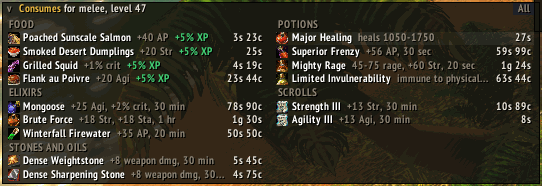
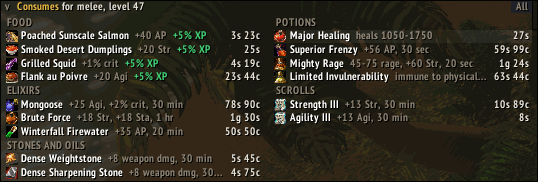
Goblin Ledger page: review fixes (phone-sized photos, clearer wording, og without flips)
- Phones see the real photos at full size: the chart scrolls sideways in its
  own strip, and the Consumes panel comes as its two columns stacked
  (img/consumes-phone.png). Both consumes crops now stop at the panel's own
  border. Photos show 1:1 inside their border.
- Pictures carry a small Drawing or Real screenshot tag; captions drop the
  build talk.
- Flight bar fill shows the time left (77%), as the addon draws it.
- Wording: the Top 2 button shows the two best; crafting says plans show
  mats cost and profit, ore and bars what your recipes pay; No results?
  instead of Empty search?; Character select screen.
- Updates card: keep the unzipped folder, its installer gets fresh prices.
- Commands: 12 one-line rows, no bracket notes; one line on off/on.
- Wide tiles go side by side from 1100 px, install steps 2 across from 640.
- og.png: "Enchant, consumes, crafting and travel tips." instead of flips.
- Top comment trimmed to the picture list and the swap-in lines.

Changed region(s): [[0.0, 0.0, 1.0, 1.0], [0.4164, 0.522, 0.7732, 0.7418], [0.803, 0.0549, 0.8327, 0.0824]]

diff --git a/goblin-ledger/index.html b/goblin-ledger/index.html
@@ -6,38 +6,36 @@
   Short on purpose: a hero, one tile per feature (a picture and 2-3 bullets),
   install in 4 steps, the commands, then help. It describes 1.1.0.
 
-  PICTURES. Real photos (all from the game, cropped, no names in them):
+  PICTURES. Real photos (from the game, cropped, no names in them):
 
     img/chart.png          the price chart under the AH                   REAL 693 x 222
-                           Cropped from the 2026-11-19 13:30 screenshot. The panel is
-                           see-through: the name plates of other players behind it were
-                           wiped by flattening only its darkest pixels (its own text,
-                           lines and bars are untouched). One build back: its blue
-                           "List At" box is "Sell at" in 1.1.0 (the caption says so).
-    img/consumes.png       the Consumes panel                              REAL 542 x 186
-                           Cropped from the 2026-11-19 14:45 screenshot (256 colours).
-                           One build back: no Best / Budget switch or grey % per row yet.
+                           Older version (its "List At" box is "Sell at" now).
+                           Shown at full size: on phones it scrolls sideways.
+    img/consumes.png       the Consumes panel                              REAL 538 x 182
+    img/consumes-phone.png the same pixels, its two columns stacked        REAL 271 x 292
+                           (phones get this one). Older version: no Best /
+                           Budget switch or % per row yet.
     img/bag-cleanup.png    the Bag cleanup panel                           REAL 222 x 254
     img/auction-house.png  sell window + chart                             REAL, NOT SHOWN:
-                           it still has the old Suggested button (gone in 1.1.0).
-    img/og.png             link preview for Discord and texts, 1200 x 630 (og:image; a graphic)
+                           it still has the old Suggested button.
+    img/og.png             link preview for Discord and texts, 1200 x 630 (a graphic)
 
-  DRAWINGS (HTML/CSS, class "mock-box", each captioned "Drawing, not a
-  screenshot"). Every line in them is one the addon really prints: the 1.1.0
-  code (build/mergepolish at 3a76542cb1) run in tools/wow/addon_test/harness.py
-  on a real price file (Nov 18). Names are items and places, never players.
+  DRAWINGS (HTML/CSS, captioned with a "Drawing" tag: not a screenshot).
+  Every line in them is one the addon really prints. Names are items and
+  places, never players.
 
     tooltip   Iron Ore, a stack of 20 in the bags
-    enchants  Bonebiter worn by a level 47 warrior, Top 5 (the default), no Blacksmithing
-    crafts    Thorium Ore (with Smelting) and Plans: Mithril Spurs: only the craft lines
+    enchants  Bonebiter worn by a level 47 warrior, Top 5 (the default)
+    crafts    Thorium Ore (with Mining) and Plans: Mithril Spurs: only the craft lines
     flights   flight map, Stormwind to Ironforge; the bar 60 s into that flight
-    boats     at the Theramore dock (a line from the harness's boat checks)
-    website   a made-up price line (says so)
+    boats     at the Theramore dock
+    website   a made-up price line
 
   To swap a drawing for a real photo: save the photo in goblin-ledger/img/
-  under the name below, replace the drawing's <div class="mock-box ..."> ... </div>
+  under the name below, replace the drawing (the element with role="img")
   with the <img> line (set width/height to the photo's pixel size), and change
-  its figcaption to "Real screenshot". Check each alt text against the photo.
+  its figcaption to: <span class="tag tag-real">Real screenshot</span>
+  Check each alt text against the photo.
 
     <img src="img/tooltip.png" width="400" height="300" loading="lazy" decoding="async" alt="Screenshot of an item tooltip in WoW Forever with the Goblin Ledger lines: the Auction it call, AH value, usual price, Sell now and the stack after the AH cut.">
     <img src="img/enchants.png" width="400" height="360" loading="lazy" decoding="async" alt="Screenshot of a worn weapon's tooltip with the Goblin Ledger enchant tips: the best enchants for your role, their mats and their cost.">
@@ -252,7 +250,11 @@ h3 { margin: 0 0 8px; color: var(--strong); font-size: 20px; font-weight: 800; l
 .tiles { display: grid; gap: 18px; grid-template-columns: minmax(0, 1fr); }
 @media (min-width: 860px) {
   .tiles { grid-template-columns: repeat(2, minmax(0, 1fr)); }
-  .tile.wide { grid-column: 1 / -1; display: grid; grid-template-columns: minmax(0, 2.2fr) minmax(0, 1fr); }
+  .tile.wide { grid-column: 1 / -1; }
+}
+/* Picture and bullets side by side only where the picture still fits at full size. */
+@media (min-width: 1100px) {
+  .tile.wide { display: grid; grid-template-columns: minmax(0, 2.2fr) minmax(0, 1fr); }
   .tile.wide .stage { border-bottom: 0; border-right: 1px solid var(--hair); }
   .tile.wide .tile-body { align-self: center; }
 }
@@ -267,9 +269,27 @@ h3 { margin: 0 0 8px; color: var(--strong); font-size: 20px; font-weight: 800; l
   background: radial-gradient(520px 260px at 50% 0%, rgba(56, 189, 247, 0.07), transparent 70%), #0A0D12;
 }
 .stage a { display: block; max-width: 100%; }
-.stage img { border: 1px solid #2C3A50; border-radius: 8px; box-shadow: 0 10px 26px rgba(0, 0, 0, 0.5); }
+/* content-box: the photo's pixels show 1:1 inside its border. */
+.stage img {
+  box-sizing: content-box; max-width: calc(100% - 2px);
+  border: 1px solid #2C3A50; border-radius: 8px; box-shadow: 0 10px 26px rgba(0, 0, 0, 0.5);
+}
+/* A wide photo on a phone: full size in a strip that scrolls sideways (the page does not). */
+.shot-scroll { max-width: 100%; }
+.swipe { display: none; }
+@media (max-width: 719px) {
+  .shot-scroll { width: 100%; overflow-x: auto; overscroll-behavior-x: contain; padding-bottom: 4px; }
+  .shot-scroll a { width: max-content; max-width: none; }
+  .shot-scroll img { max-width: none; box-shadow: none; }
+  .swipe { display: inline; }
+}
 .cap { margin: 0; color: #A39A8A; font-size: 12.5px; line-height: 1.4; text-align: center; }
-@media (min-width: 860px) { .tap { display: none; } }
+.tag {
+  display: inline-block; margin-right: 7px; padding: 1px 8px; border-radius: 999px;
+  font-size: 11px; font-weight: 800; letter-spacing: 0.7px; line-height: 1.5; text-transform: uppercase;
+}
+.tag-draw { border: 1px dashed #4F7391; background: rgba(56, 189, 247, 0.08); color: #9FD3F0; }
+.tag-real { border: 1px solid #3F6E50; background: rgba(64, 204, 115, 0.08); color: #8EDBA9; }
 .tile-body { padding: 16px 18px 18px; }
 
 /* ---- drawings (not screenshots), in the game's tooltip look ---- */
@@ -293,7 +313,8 @@ h3 { margin: 0 0 8px; color: var(--strong); font-size: 20px; font-weight: 800; l
   display: flex; flex-wrap: wrap; justify-content: space-between; align-items: baseline; gap: 0 12px;
   padding: 2px 0;
 }
-.tip-row > :last-child { margin-left: auto; color: #FFFFFF; text-align: right; }
+.tip-row > :last-child { margin-left: auto; color: #FFFFFF; text-align: right; white-space: nowrap; }
+.nw { white-space: nowrap; }
 .tip-row.big { padding: 3px 0; font-size: 18.5px; font-weight: 700; }
 .tip-mats { padding: 0 0 3px 12px; color: #8C8273; font-size: 14px; }
 .tl-brand { color: #38BDF7; }
@@ -311,7 +332,8 @@ h3 { margin: 0 0 8px; color: var(--strong); font-size: 20px; font-weight: 800; l
   color: #E6E0D6; font-family: "Trebuchet MS", -apple-system, BlinkMacSystemFont, Roboto, Ubuntu, sans-serif;
   font-size: 14px; font-weight: 700; line-height: 24px; text-align: center;
 }
-.flybar .fill { position: absolute; inset: 0 auto 0 0; width: 23%; background: rgba(56, 189, 247, 0.45); }
+/* the fill is the time left: 3:19 of 4:19 */
+.flybar .fill { position: absolute; inset: 0 auto 0 0; width: 77%; background: rgba(56, 189, 247, 0.45); }
 .flybar .txt { position: relative; }
 .xbox {
   position: absolute; right: 3px; top: 50%; width: 16px; height: 16px; margin-top: -8px;
@@ -350,7 +372,8 @@ h3 { margin: 0 0 8px; color: var(--strong); font-size: 20px; font-weight: 800; l
 
 /* ---- install ---- */
 .steps { display: grid; gap: 12px; margin: 0; padding: 0; list-style: none; counter-reset: step; }
-@media (min-width: 860px) { .steps { grid-template-columns: repeat(4, minmax(0, 1fr)); } }
+@media (min-width: 640px) { .steps { grid-template-columns: repeat(2, minmax(0, 1fr)); } }
+@media (min-width: 1100px) { .steps { grid-template-columns: repeat(4, minmax(0, 1fr)); } }
 .steps > li {
   position: relative; padding: 16px 16px 16px 62px; counter-increment: step;
   border: 1px solid var(--hair); border-radius: 12px; background: var(--panel);
@@ -471,7 +494,7 @@ kbd {
             <p class="tip-row"><span>Sell now</span><span><span class="m-s">2s</span> <span class="m-c">34c</span></span></p>
             <p class="tip-row"><span>This stack (20), after AH cut</span><span><span class="m-s">44s</span> <span class="m-c">46c</span></span></p>
           </div>
-          <figcaption class="cap">Drawing, not a screenshot. Real lines on real prices.</figcaption>
+          <figcaption class="cap"><span class="tag tag-draw">Drawing</span>not a screenshot</figcaption>
         </figure>
         <div class="tile-body">
           <h3>Prices on every item</h3>
@@ -486,9 +509,9 @@ kbd {
       <!-- Bag cleanup: real photo -->
       <article class="tile">
         <figure class="stage">
-          <a href="img/bag-cleanup.png"><img src="img/bag-cleanup.png" width="222" height="254" loading="lazy" decoding="async"
+          <a href="img/bag-cleanup.png"><img src="img/bag-cleanup.png" width="222" height="254" decoding="async"
                alt="Screenshot of the Bag cleanup panel in WoW Forever: 30 of 68 slots free, then Worth the least, 8 of 16 stacks from Silk Cloth at 1 silver 90 copper up to Greater Healing Potion times 5 at 21 silver 13 copper, and a Drop cheapest button."></a>
-          <figcaption class="cap">Real screenshot.</figcaption>
+          <figcaption class="cap"><span class="tag tag-real">Real screenshot</span></figcaption>
         </figure>
         <div class="tile-body">
           <h3>Bag cleanup</h3>
@@ -503,16 +526,18 @@ kbd {
       <!-- Auction house: real photo of the chart, wide -->
       <article class="tile wide">
         <figure class="stage">
-          <a href="img/chart.png"><img src="img/chart.png" width="693" height="222" loading="lazy" decoding="async"
+          <div class="shot-scroll">
+            <a href="img/chart.png"><img src="img/chart.png" width="693" height="222" loading="lazy" decoding="async"
                alt="Screenshot of the Goblin Ledger price chart docked under the auction house for Plans: Runed Copper Breastplate: price 4 silver 99 copper, the 1D, 5D, 1W, 1M and 1Y buttons, a Target Buy box and a List At box, a one-day price line with sales bars, and the margin after the 5% cut."></a>
-          <figcaption class="cap">Real screenshot, one build back (List At is now Sell at).<span class="tap"> Tap to enlarge.</span></figcaption>
+          </div>
+          <figcaption class="cap"><span class="tag tag-real">Real screenshot</span>older version<span class="swipe">, swipe to see it all</span></figcaption>
         </figure>
         <div class="tile-body">
           <h3>At the auction house</h3>
           <ul class="ticks">
             <li>A <b>price chart</b> under the AH: 1D, 5D, 1W, 1M, 1Y</li>
             <li><b>Sell now</b> button fills the price; arrows nudge it</li>
-            <li>Empty search? Last listed, sold a day, mats cost of plans</li>
+            <li>No results? Last listed, sold a day, plan mats cost</li>
           </ul>
         </div>
       </article>
@@ -523,24 +548,24 @@ kbd {
           <div class="mock-box gametip" role="img" aria-label="Drawing of the enchant tips on a worn Bonebiter for a level 47 warrior: best enchant Crusader about 33 gold, from 4 Large Brilliant Shard and 2 Righteous Orb; 2nd Fiery Weapon about 4 gold 21 silver; 3rd Lesser Strength plus 15 about 1 gold 50 silver; 4th Greater Impact plus 7 about 2 gold 3 silver; 5th Impact plus 6 about 50 silver; each with its mats.">
             <p class="tip-item">Bonebiter</p>
             <p class="tip-row"><span>Best enchant: Crusader</span><span><span class="m-g">~33g</span></span></p>
-            <p class="tip-mats">4 Large Brilliant Shard, 2 Righteous Orb</p>
+            <p class="tip-mats"><span class="nw">4 Large Brilliant Shard</span>, <span class="nw">2 Righteous Orb</span></p>
             <p class="tip-row"><span>2nd: Fiery Weapon</span><span><span class="m-g">~4g</span> <span class="m-s">21s</span></span></p>
-            <p class="tip-mats">2 Small Radiant Shard, 1 Essence of Fire</p>
+            <p class="tip-mats"><span class="nw">2 Small Radiant Shard</span>, <span class="nw">1 Essence of Fire</span></p>
             <p class="tip-row"><span>3rd: Lesser Strength +15</span><span><span class="m-g">~1g</span> <span class="m-s">50s</span></span></p>
-            <p class="tip-mats">1 Vision Dust, 1 Large Glowing Shard, 2 Lesser Nether Essence</p>
+            <p class="tip-mats"><span class="nw">1 Vision Dust</span>, <span class="nw">1 Large Glowing Shard</span>, <span class="nw">2 Lesser Nether Essence</span></p>
             <p class="tip-row"><span>4th: Greater Impact +7</span><span><span class="m-g">~2g</span> <span class="m-s">3s</span></span></p>
-            <p class="tip-mats">1 Large Radiant Shard, 1 Dream Dust</p>
+            <p class="tip-mats"><span class="nw">1 Large Radiant Shard</span>, <span class="nw">1 Dream Dust</span></p>
             <p class="tip-row"><span>5th: Impact +6</span><span><span class="m-s">~50s</span></span></p>
-            <p class="tip-mats">2 Vision Dust, 1 Large Glowing Shard</p>
+            <p class="tip-mats"><span class="nw">2 Vision Dust</span>, <span class="nw">1 Large Glowing Shard</span></p>
           </div>
-          <figcaption class="cap">Drawing, not a screenshot. Real lines: a level 47 warrior.</figcaption>
+          <figcaption class="cap"><span class="tag tag-draw">Drawing</span>not a screenshot</figcaption>
         </figure>
         <div class="tile-body">
           <h3>Enchant tips</h3>
           <ul class="ticks">
             <li>On the gear you wear (character screen)</li>
             <li>Best enchants for your class and role, mats and AH cost</li>
-            <li>Top 5 by default; the <b>Top 2</b> button shows just the best</li>
+            <li>Top 5 by default; the <b>Top 2</b> button shows the two best</li>
           </ul>
         </div>
       </article>
@@ -556,17 +581,17 @@ kbd {
             <div class="mock-box gametip">
               <p class="tip-item">Plans: Mithril Spurs</p>
               <p class="tip-row"><span>Makes: Mithril Spurs</span><span><span class="m-s">3s</span> <span class="m-c">87c</span></span></p>
-              <p class="tip-mats">4 Mithril Bar 42s 24c, 3 Solid Grinding Stone 29s 22c</p>
-              <p class="tip-row"><span>Mats: 71s 46c</span><span class="t-neg">Profit: -67s 79c</span></p>
+              <p class="tip-mats"><span class="nw">4 Mithril Bar 42s 24c</span>, <span class="nw">3 Solid Grinding Stone 29s 22c</span></p>
+              <p class="tip-row"><span class="nw">Mats: 71s 46c</span><span class="t-neg">Profit: -67s 79c</span></p>
             </div>
           </div>
-          <figcaption class="cap">Drawing, not a screenshot. Real lines; price lines left out.</figcaption>
+          <figcaption class="cap"><span class="tag tag-draw">Drawing</span>not a screenshot</figcaption>
         </figure>
         <div class="tile-body">
           <h3>Crafting profit</h3>
           <ul class="ticks">
-            <li>Plans, patterns, ore and bars show what the mats cost</li>
-            <li>Green when crafting or smelting pays after the AH cut</li>
+            <li>Plans and patterns: mats cost and profit after the AH cut</li>
+            <li>Ore and bars: what your own recipes pay for them</li>
             <li>One line in the Professions window too</li>
           </ul>
         </div>
@@ -575,9 +600,12 @@ kbd {
       <!-- Consumes: real photo -->
       <article class="tile wide">
         <figure class="stage">
-          <a href="img/consumes.png"><img src="img/consumes.png" width="542" height="186" loading="lazy" decoding="async"
-               alt="Screenshot of the Goblin Ledger Consumes panel for melee, level 47: food like Poached Sunscale Salmon with plus 5% XP, elixirs like Mongoose, potions like Major Healing and Mighty Rage, scrolls of Strength III and Agility III, and weapon stones, each with its price."></a>
-          <figcaption class="cap">Real screenshot, one build back (no Budget switch or % yet).<span class="tap"> Tap to enlarge.</span></figcaption>
+          <a href="img/consumes.png"><picture>
+            <source media="(max-width: 619px)" srcset="img/consumes-phone.png" width="271" height="292">
+            <img src="img/consumes.png" width="538" height="182" loading="lazy" decoding="async"
+               alt="Screenshot of the Goblin Ledger Consumes panel for melee, level 47: food like Poached Sunscale Salmon with plus 5% XP, elixirs like Mongoose, potions like Major Healing and Mighty Rage, scrolls of Strength III and Agility III, and weapon stones, each with its price.">
+          </picture></a>
+          <figcaption class="cap"><span class="tag tag-real">Real screenshot</span>older version</figcaption>
         </figure>
         <div class="tile-body">
           <h3>Consumes</h3>
@@ -601,7 +629,7 @@ kbd {
               <span class="fill"></span><span class="txt">Ironforge 3:19</span><span class="xbox">x</span>
             </div>
           </div>
-          <figcaption class="cap">Drawing, not a screenshot. Real lines: Stormwind to Ironforge.</figcaption>
+          <figcaption class="cap"><span class="tag tag-draw">Drawing</span>not a screenshot</figcaption>
         </figure>
         <div class="tile-body">
           <h3>Flight timer</h3>
@@ -619,7 +647,7 @@ kbd {
             <div class="minimap"></div>
             <p class="boatline">Boat to Menethil: docked, leaves in 0:41<span class="xbox" aria-hidden="true">x</span></p>
           </div>
-          <figcaption class="cap">Drawing, not a screenshot. A real line, at the Theramore dock.</figcaption>
+          <figcaption class="cap"><span class="tag tag-draw">Drawing</span>not a screenshot</figcaption>
         </figure>
         <div class="tile-body">
           <h3>Boat timer</h3>
@@ -644,7 +672,7 @@ kbd {
               </svg>
             </div>
           </div>
-          <figcaption class="cap">Drawing with a made-up price line.</figcaption>
+          <figcaption class="cap"><span class="tag tag-draw">Drawing</span>not a screenshot</figcaption>
         </figure>
         <div class="tile-body">
           <h3>Price website</h3>
@@ -695,21 +723,19 @@ kbd {
     <h2 id="commands-title">Type these in chat</h2>
     <ul class="cmds">
       <li><code>/gl help</code> <span>every command</span></li>
-      <li><code>/reload</code> <span>load the newest prices</span></li>
+      <li><code>/reload</code> <span>load the new prices</span></li>
       <li><code>/gl compact</code> <span>one-line tooltips</span></li>
-      <li><code>/gl tooltip</code> <span>tooltip prices off or on</span></li>
-      <li><code>/gl chart Linen Cloth</code> <span>a chart for any item</span></li>
-      <li><code>/gl bags</code> <span>the bag cleanup list in chat</span></li>
-      <li><code>/gl enchants top2</code> <span>just the best two (top5: five)</span></li>
-      <li><code>/gl enchants tank</code> <span>pick your role (auto: talents)</span></li>
-      <li><code>/gl consumes budget</code> <span>cheaper picks (best: strongest)</span></li>
-      <li><code>/gl crafts off</code> <span>hide the craft tips</span></li>
-      <li><code>/gl flights off</code> <span>hide the flight timer</span></li>
-      <li><code>/gl boat now</code> <span>as a boat docks: sets its timer</span></li>
-      <li><code>/gl boats off</code> <span>hide the boat timer</span></li>
-      <li><code>/gl update</code> <span>your version, how to update</span></li>
-      <li><kbd>Shift</kbd> <span>hold over a stack or plan: whole stack, every mat</span></li>
+      <li><code>/gl tooltip</code> <span>prices off or on</span></li>
+      <li><code>/gl chart Linen Cloth</code> <span>chart any item</span></li>
+      <li><code>/gl bags</code> <span>cleanup list in chat</span></li>
+      <li><code>/gl enchants top2</code> <span>best two only</span></li>
+      <li><code>/gl enchants tank</code> <span>set your role</span></li>
+      <li><code>/gl consumes budget</code> <span>cheaper picks</span></li>
+      <li><code>/gl flights off</code> <span>hide the flight bar</span></li>
+      <li><code>/gl update</code> <span>check your version</span></li>
+      <li><kbd>Shift</kbd> <span>hold: whole stack, every mat</span></li>
     </ul>
+    <p class="note"><code>off</code> works for crafts, boats and consumes too; <code>on</code> brings it back.</p>
   </div>
 </section>
 
@@ -722,9 +748,10 @@ kbd {
       <div class="card">
         <h3>Updates</h3>
         <ul class="ticks">
-          <li>Prices update every 30 min by themselves</li>
-          <li>The game loads them at log in or <code>/reload</code></li>
-          <li>New versions install themselves. On 1.0.0? Run the new installer once.</li>
+          <li>Prices update every 30 min; <code>/reload</code> shows them</li>
+          <li>Keep the unzipped folder: its installer gets fresh prices now</li>
+          <li>New versions install themselves</li>
+          <li>Had the first version? Run the new installer once</li>
         </ul>
       </div>
       <div class="card">
@@ -739,7 +766,7 @@ kbd {
         <h3>Not working?</h3>
         <ul class="ticks">
           <li>Close WoW fully and start it again</li>
-          <li>Character screen, AddOns: tick Goblin Ledger</li>
+          <li>Character select screen: AddOns, tick Goblin Ledger</li>
           <li>Can't copy? Right-click the installer, Run as administrator</li>
         </ul>
         <p class="note">To remove it: Uninstall-Goblin-Ledger.bat.</p>
